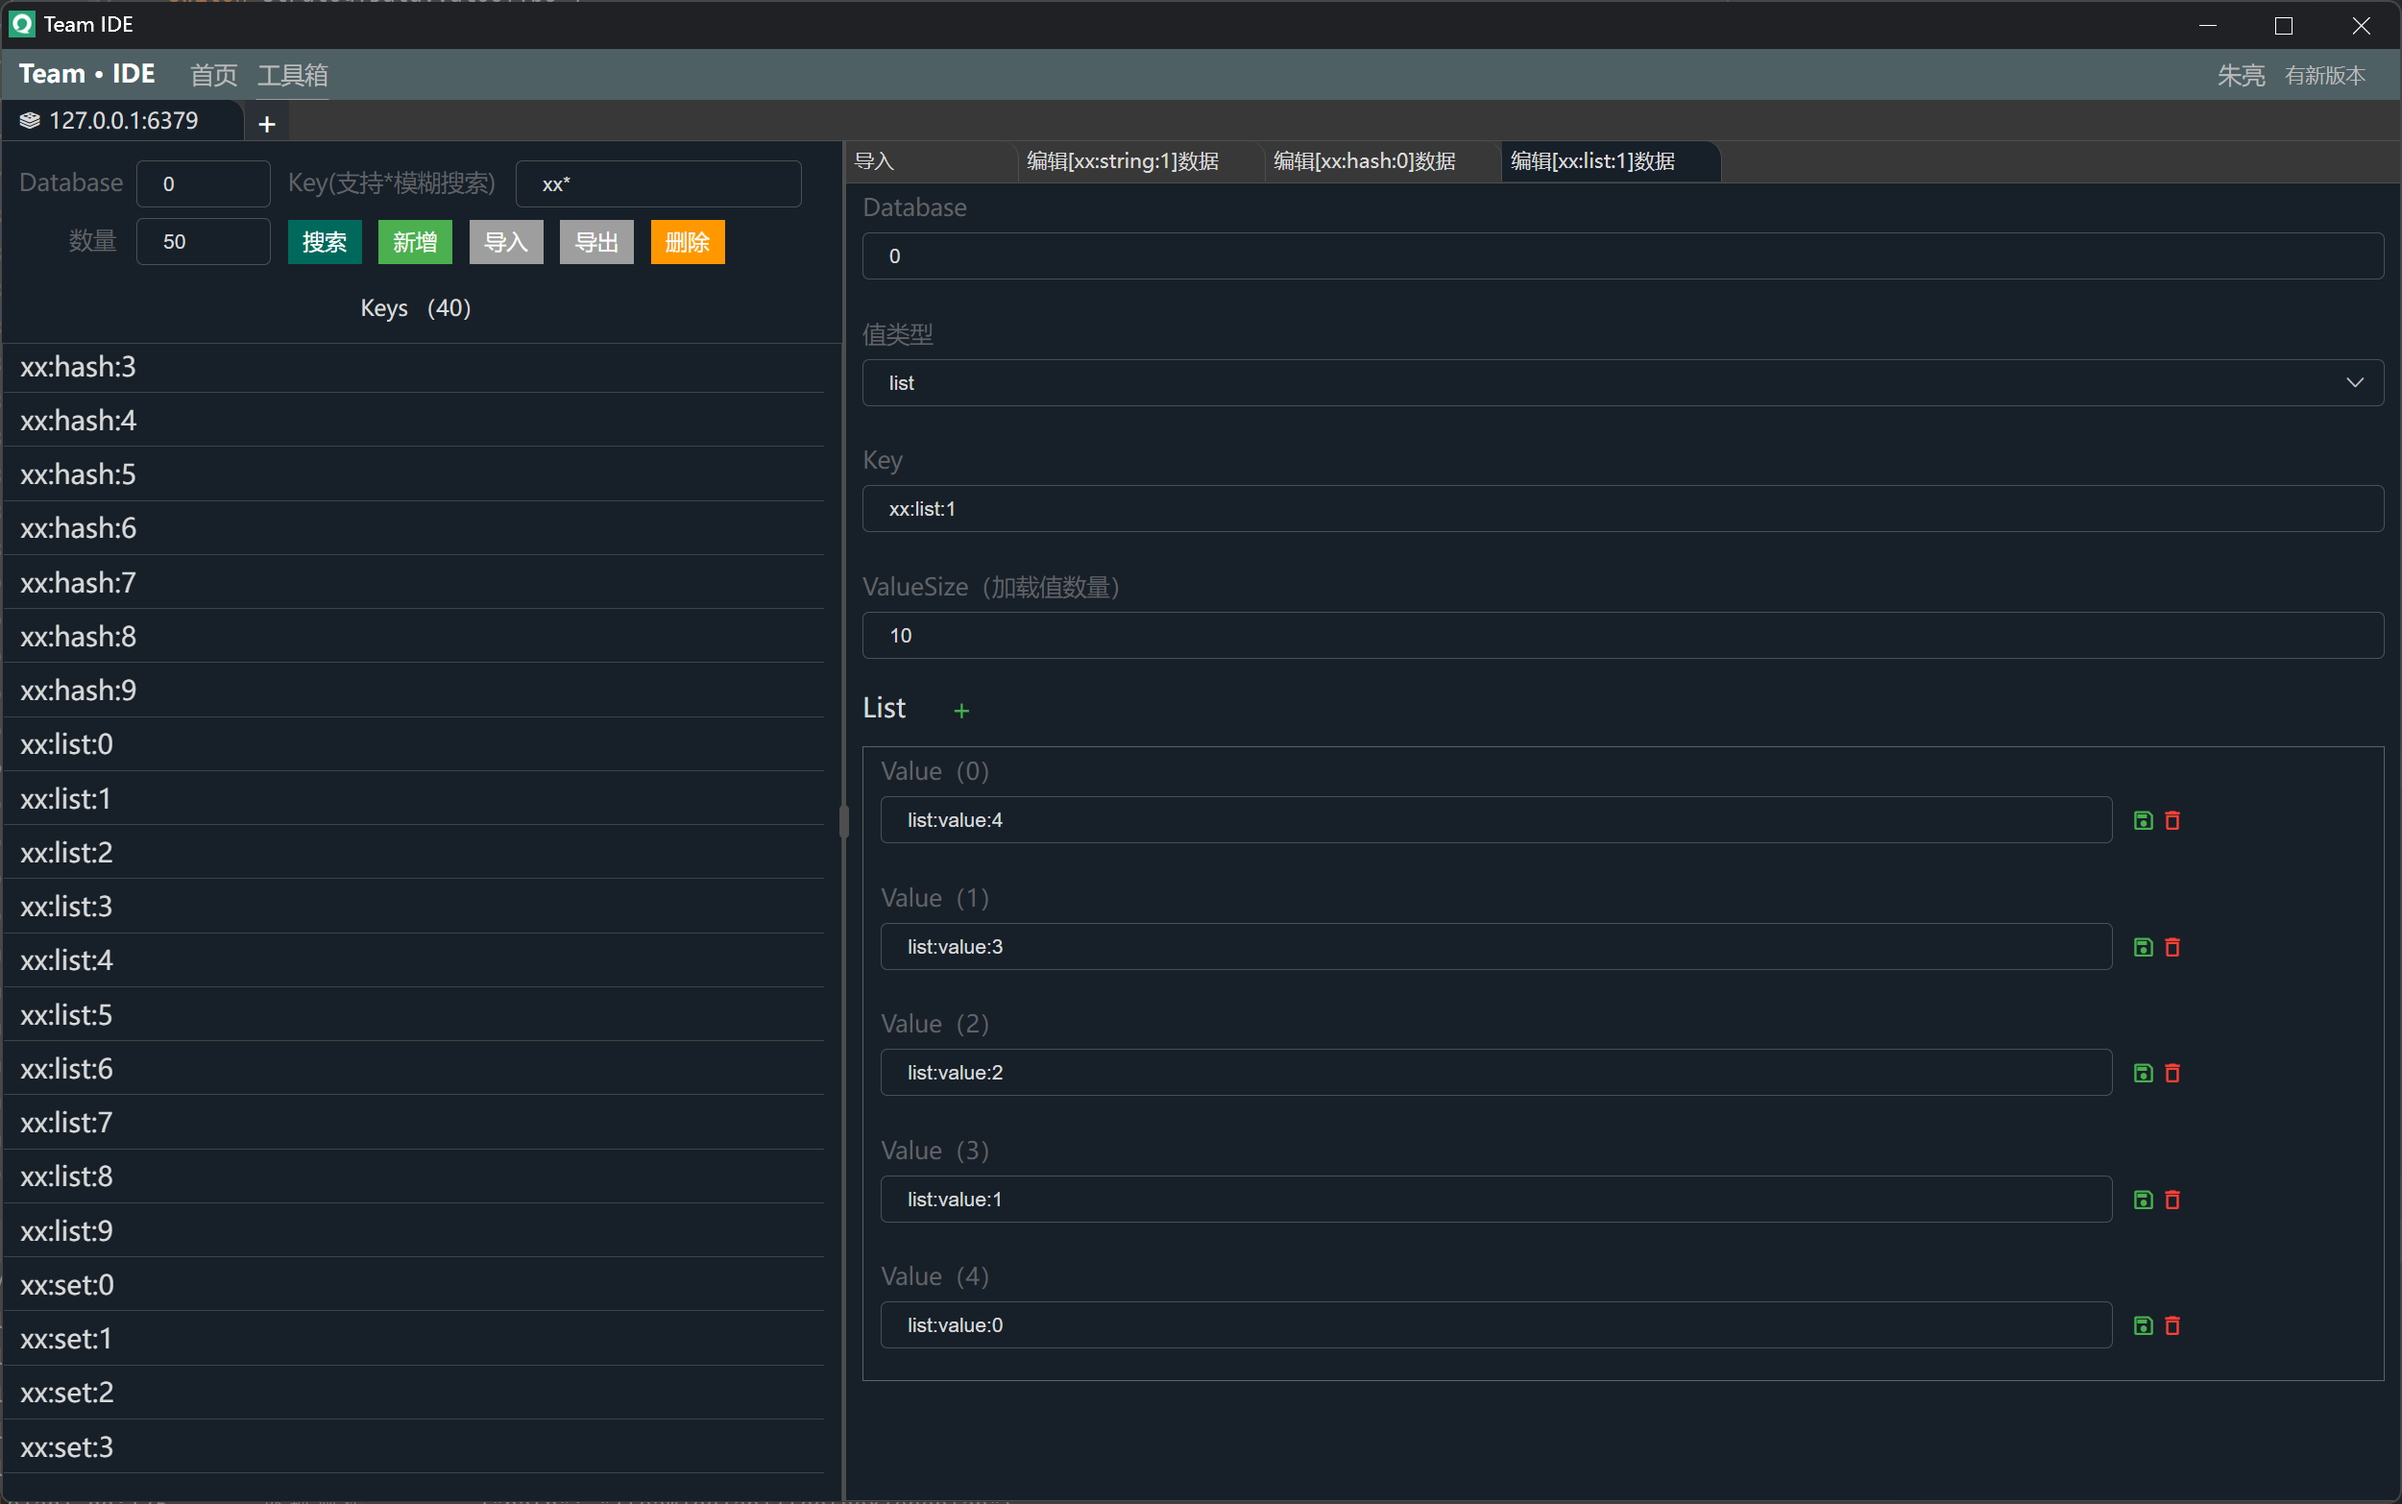
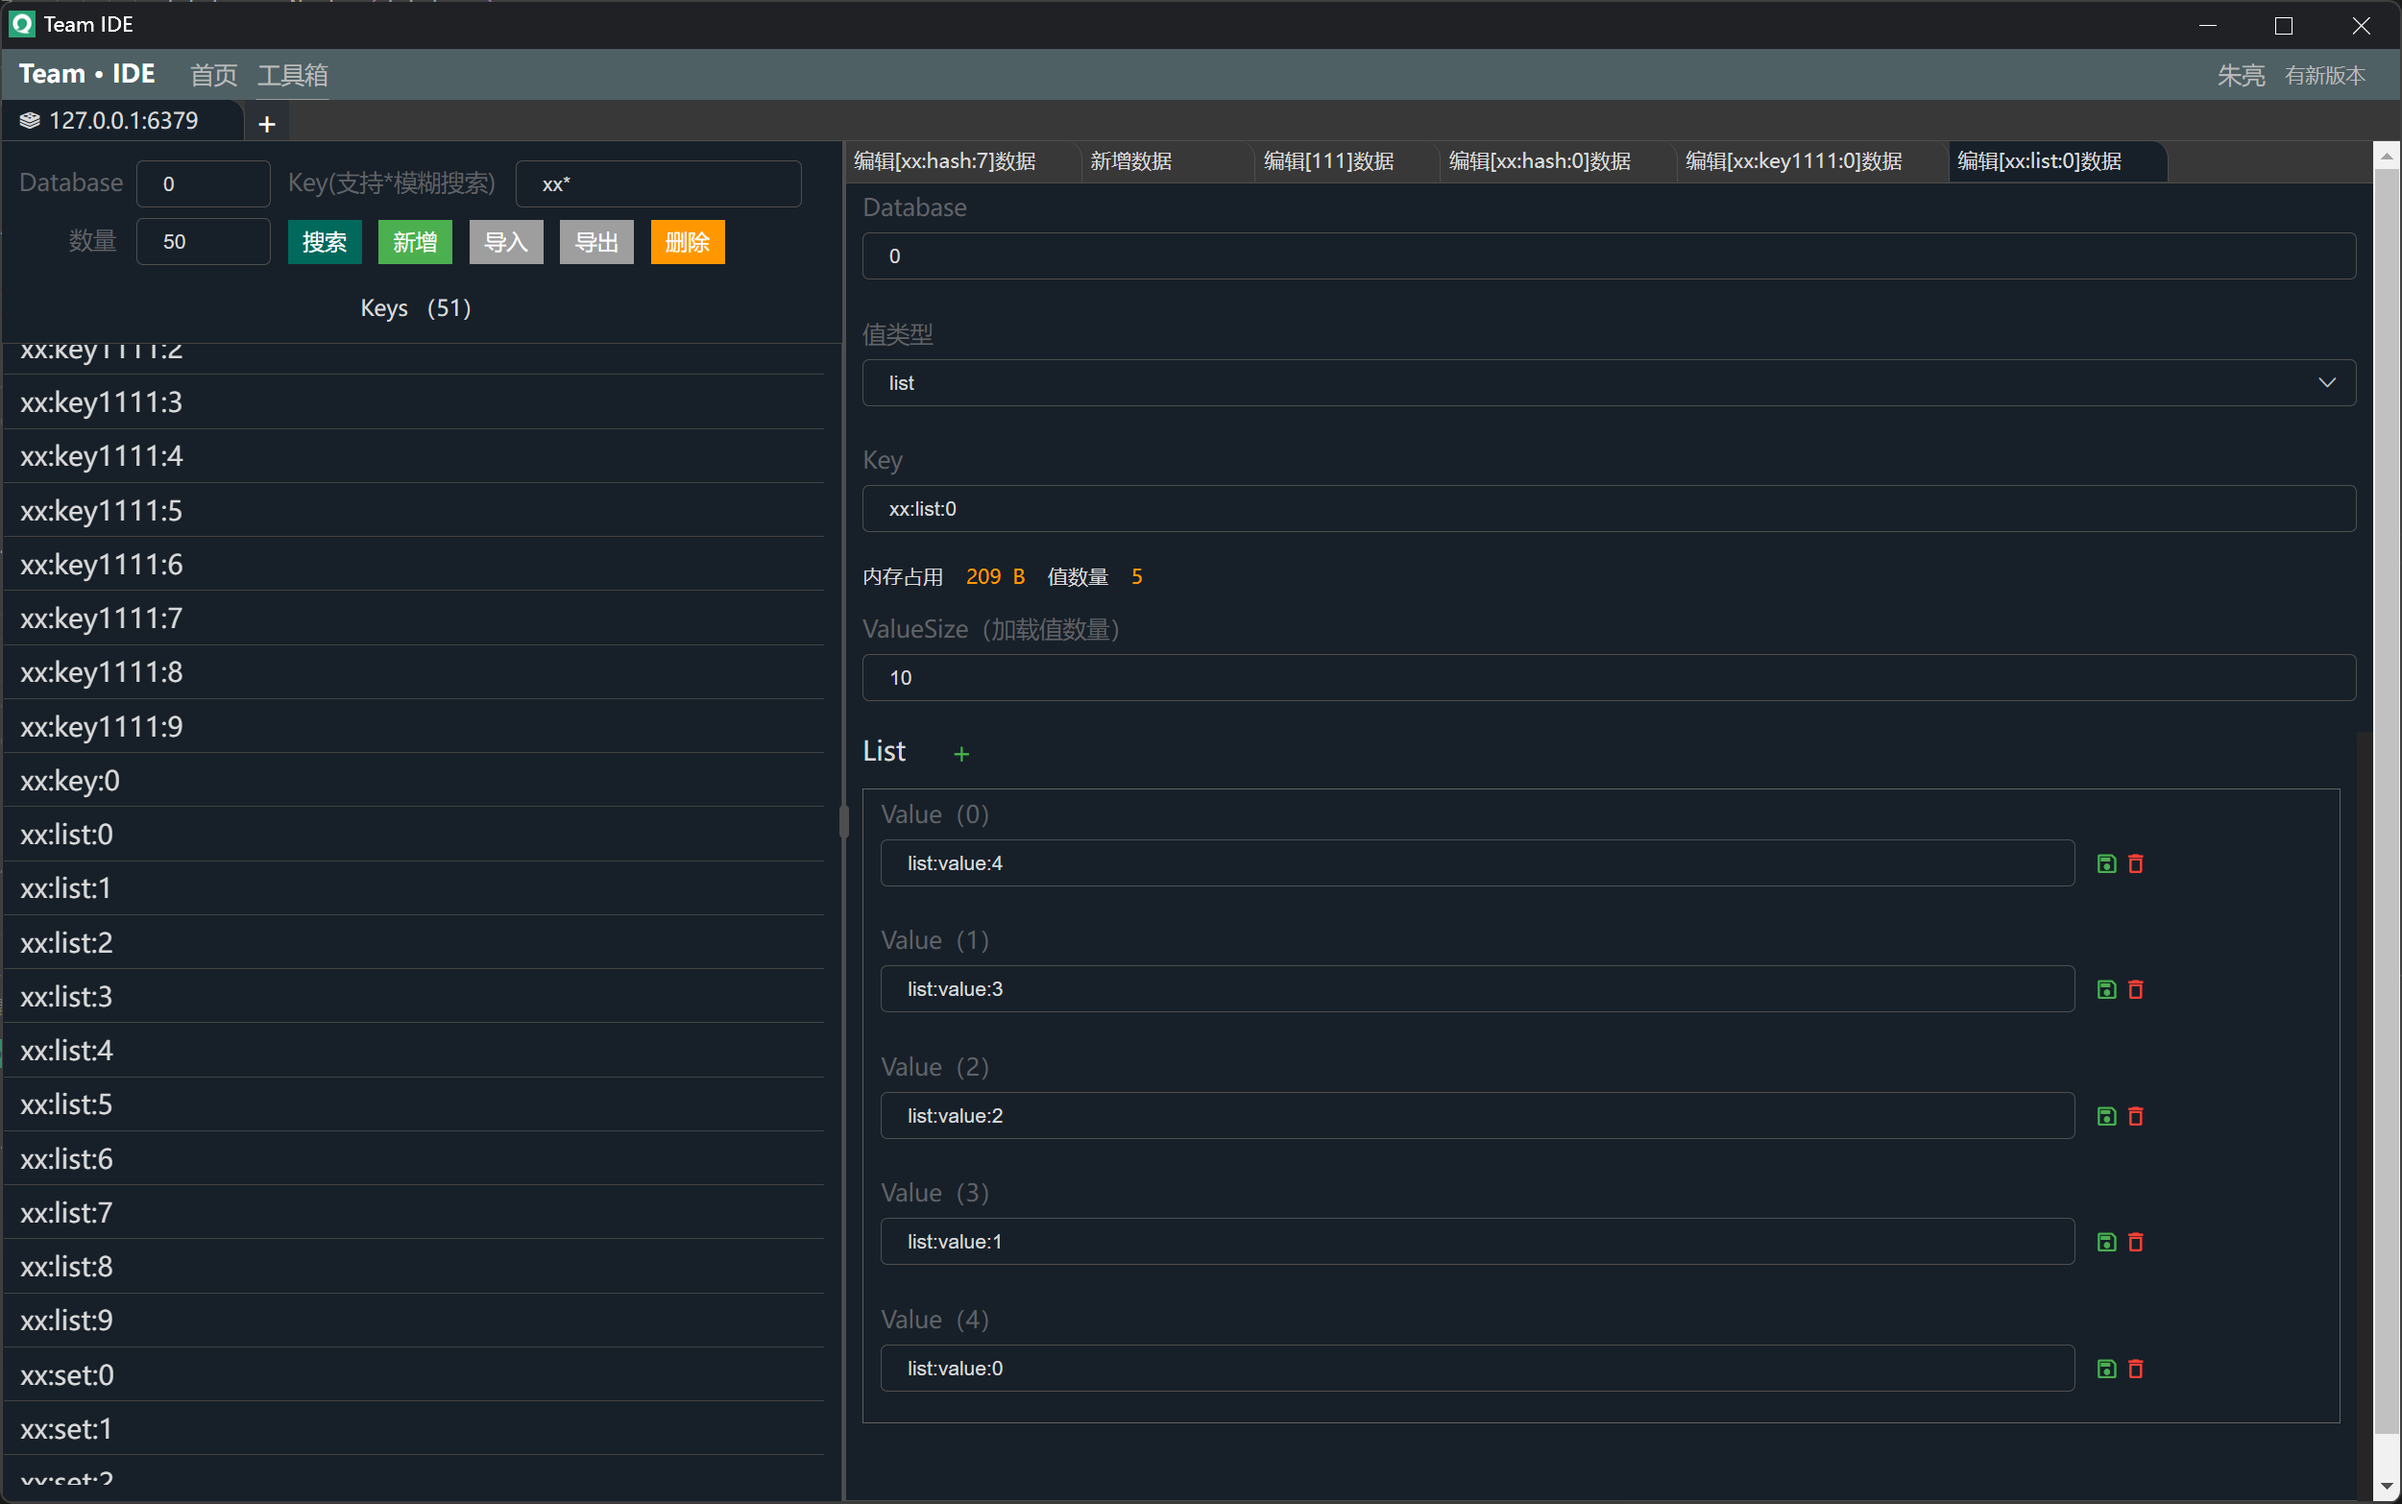
Redis点击某个Key展示Key的值占用内存大小；Key的值类型为Hash、List、Set展示值数量；

diff --git a/html/src/component/toolbox/redis/Data.vue b/html/src/component/toolbox/redis/Data.vue
@@ -21,6 +21,30 @@
           <el-form-item label="Key">
             <el-input v-model="form.key"> </el-input>
           </el-form-item>
+          <div
+            class="ft-12 pdb-10"
+            v-if="form.memoryUsage > 0 || form.valueCount > 0"
+          >
+            <template v-if="form.memoryUsage > 0">
+              <span class="mgl-10">
+                内存占用
+                <span class="mgl-10 color-orange">
+                  {{ form.unitMemoryUsage }}
+                </span>
+                <span class="mgl-3 color-orange">
+                  {{ form.unit }}
+                </span>
+              </span>
+            </template>
+            <template v-if="form.valueCount > 0">
+              <span class="mgl-10">
+                值数量
+                <span class="mgl-10 color-orange">
+                  {{ form.valueCount }}
+                </span>
+              </span>
+            </template>
+          </div>
           <template v-if="form.valueType == 'string'">
             <el-form-item label="Value">
               <el-input
@@ -269,6 +293,10 @@ export default {
         key: null,
         value: null,
         valueJson: null,
+        memoryUsage: 0,
+        unitMemoryUsage: null,
+        unit: null,
+        valueCount: 0,
       },
       setList: [],
       listList: [],
@@ -308,6 +336,9 @@ export default {
     async initForm() {
       this.loading = true;
       this.form.value = null;
+      this.form.memoryUsage = 0;
+      this.form.valueCount = 0;
+
       this.setList = [];
       this.listList = [];
       this.hashList = [];
@@ -339,6 +370,11 @@ export default {
       }
 
       this.form.value = null;
+      this.form.memoryUsage = data.memoryUsage || 0;
+      this.form.unitMemoryUsage = null;
+      this.form.unit = null;
+      this.tool.formatSize(this.form, "memoryUsage", "unitMemoryUsage", "unit");
+      this.form.valueCount = data.valueCount || 0;
       this.setList = [];
       this.listList = [];
       this.hashList = [];

diff --git a/html/src/component/toolbox/ssh/FTP.vue b/html/src/component/toolbox/ssh/FTP.vue
@@ -162,7 +162,6 @@ export default {
     async init() {
       await this.initToken(this);
       this.initSocket(this);
-      this.wrap.formatSize = this.formatSize;
     },
     onFocus() {
       this.$refs.remoteToolboxFTPFiles.onFocus();
@@ -170,26 +169,6 @@ export default {
     refresh() {
       this.$refs.localToolboxFTPFiles.refresh();
       this.$refs.remoteToolboxFTPFiles.refresh();
-    },
-    formatSize(data, name, sizeName, sizeUnitName) {
-      data[name] = data[name] || 0;
-      let sizeMap = [
-        { size: 1024 * 1024 * 1024 * 1024, unit: "TB" },
-        { size: 1024 * 1024 * 1024, unit: "GB" },
-        { size: 1024 * 1024, unit: "MB" },
-        { size: 1024, unit: "KB" },
-      ];
-
-      sizeMap.forEach((one) => {
-        if (!data[sizeUnitName] && data[name] >= one.size) {
-          data[sizeName] = Number(data[name] / one.size).toFixed(2);
-          data[sizeUnitName] = one.unit;
-        }
-      });
-      if (!data[sizeUnitName]) {
-        data[sizeName] = data[name];
-        data[sizeUnitName] = "B";
-      }
     },
     workContextmenu(e) {
       e = e || window.event;
@@ -248,10 +227,10 @@ export default {
       }
       work.progress = data.progress;
       if (work.progress.size) {
-        this.formatSize(work.progress, "size", "unitSize", "unit");
+        this.tool.formatSize(work.progress, "size", "unitSize", "unit");
 
         if (work.progress.successSize) {
-          this.formatSize(
+          this.tool.formatSize(
             work.progress,
             "successSize",
             "unitSuccessSize",
@@ -281,7 +260,7 @@ export default {
             ).toFixed(2);
             work.progress.sleepSize = sleepSize;
 
-            this.formatSize(
+            this.tool.formatSize(
               work.progress,
               "sleepSize",
               "unitSleepSize",

diff --git a/html/src/tool/index.js b/html/src/tool/index.js
@@ -204,6 +204,26 @@ tool.down = function (bean, name, value) {
         }
     }
 };
+tool.formatSize = function (data, name, sizeName, sizeUnitName) {
+    data[name] = data[name] || 0;
+    let sizeMap = [
+        { size: 1024 * 1024 * 1024 * 1024, unit: "TB" },
+        { size: 1024 * 1024 * 1024, unit: "GB" },
+        { size: 1024 * 1024, unit: "MB" },
+        { size: 1024, unit: "KB" },
+    ];
+
+    sizeMap.forEach((one) => {
+        if (!data[sizeUnitName] && data[name] >= one.size) {
+            data[sizeName] = Number(data[name] / one.size).toFixed(2);
+            data[sizeUnitName] = one.unit;
+        }
+    });
+    if (!data[sizeUnitName]) {
+        data[sizeName] = data[name];
+        data[sizeUnitName] = "B";
+    }
+};
 tool.preNUm = function (data) {
     let mask = 0x80;
     let num = 0;

diff --git a/html/src/component/toolbox/ssh/Files.vue b/html/src/component/toolbox/ssh/Files.vue
@@ -684,7 +684,7 @@ export default {
           one.isNew = false;
           one.show = true;
           if (!one.isDir) {
-            this.wrap.formatSize(one, "size", "unitSize", "unit");
+            this.tool.formatSize(one, "size", "unitSize", "unit");
           }
           if (one.modTime) {
             one.dateTime = this.tool.formatDate(

diff --git a/pkg/redis/cmdable.go b/pkg/redis/cmdable.go
@@ -55,6 +55,8 @@ func Get(ctx context.Context, client redis.Cmdable, key string, valueStart, valu
 		return
 	}
 	valueInfo = &ValueInfo{}
+
+	valueInfo.MemoryUsage, _ = MemoryUsage(ctx, client, key)
 	var value interface{}
 
 	if valueType == "none" {
@@ -242,9 +244,20 @@ func SetBit(ctx context.Context, client redis.Cmdable, key string, offset int64,
 }
 
 func BitCount(ctx context.Context, client redis.Cmdable, key string) (count int64, err error) {
-	var bitCount = &redis.BitCount{}
-	cmd := client.BitCount(ctx, key, bitCount)
+	cmd := client.BitCount(ctx, key, nil)
 	count, err = cmd.Result()
+	return
+}
+
+func Info(ctx context.Context, client redis.Cmdable) (res string, err error) {
+	cmd := client.Info(ctx)
+	res, err = cmd.Result()
+	return
+}
+
+func MemoryUsage(ctx context.Context, client redis.Cmdable, key string) (size int64, err error) {
+	cmd := client.MemoryUsage(ctx, key)
+	size, err = cmd.Result()
 	return
 }
 

diff --git a/pkg/redis/v8.go b/pkg/redis/v8.go
@@ -17,12 +17,13 @@ func CreateRedisService(address string, auth string) (service *V8Service, err er
 }
 
 type ValueInfo struct {
-	ValueType  string      `json:"valueType"`
-	Value      interface{} `json:"value"`
-	ValueCount int64       `json:"valueCount"`
-	ValueStart int64       `json:"valueStart"`
-	ValueEnd   int64       `json:"valueEnd"`
-	Cursor     uint64      `json:"cursor"`
+	ValueType   string      `json:"valueType"`
+	Value       interface{} `json:"value"`
+	ValueCount  int64       `json:"valueCount"`
+	ValueStart  int64       `json:"valueStart"`
+	ValueEnd    int64       `json:"valueEnd"`
+	Cursor      uint64      `json:"cursor"`
+	MemoryUsage int64       `json:"memoryUsage"`
 }
 
 type V8Service struct {

diff --git a/pkg/toolbox/redis.go b/pkg/toolbox/redis.go
@@ -83,6 +83,10 @@ func redisWork(work string, config map[string]interface{}, data map[string]inter
 		res["key"] = request.Key
 		res["valueType"] = valueInfo.ValueType
 		res["value"] = valueInfo.Value
+		res["memoryUsage"] = valueInfo.MemoryUsage
+		res["valueStart"] = valueInfo.ValueStart
+		res["valueEnd"] = valueInfo.ValueEnd
+		res["valueCount"] = valueInfo.ValueCount
 	case "keys":
 		var count int
 		var keys []string

diff --git a/pkg/util/util.go b/pkg/util/util.go
@@ -131,7 +131,7 @@ func RandomInt(min int, max int) (res int, err error) {
 		err = errors.New(fmt.Sprint("RandomInt error,min:", min, ",max:", max))
 		return
 	}
-	res = min + randForRandomInt.Intn(max-min)
+	res = min + randForRandomInt.Intn(max-min+1)
 	return
 }
 

diff --git a/README.md b/README.md
@@ -4,7 +4,7 @@ Team IDE 团队在线开发工具
 
 [![Code](https://img.shields.io/badge/Code-TeamIDE-red)](https://github.com/team-ide/teamide)
 [![License](https://img.shields.io/badge/License-Apache--2.0%20License-blue)](https://github.com/team-ide/teamide/blob/main/LICENSE)
-[![Release Latest](https://img.shields.io/badge/Release-V1.2.8-brightgreen)](https://github.com/team-ide/teamide/releases)
+[![Release Latest](https://img.shields.io/badge/Release-V1.2.9-brightgreen)](https://github.com/team-ide/teamide/releases)
 [![Download Window](https://img.shields.io/badge/Download-Window-orange)](https://github.com/team-ide/teamide/releases/latest/download/teamide-windows-x64.zip)
 [![Download Linux](https://img.shields.io/badge/Download-Linux-orange)](https://github.com/team-ide/teamide/releases/latest/download/teamide-linux-x64.zip)
 [![Download MAC](https://img.shields.io/badge/Download-MAC-orange)](https://github.com/team-ide/teamide/releases/latest/download/teamide-darwin-x64.zip)

diff --git a/RELEASE.md b/RELEASE.md
@@ -1,9 +1,8 @@
 # 发布说明
 
-## Version v1.2.8 （2022/06/06）
+## Version v1.2.9 （2022/06/09）
 
 发布功能
 
-1. SSH 出现数据截断问题导致页面显示异常
-2. 设置终端中的回滚量为100000000，避免无法上拉查看历史
-3. 可以使用clear清屏
+1. Redis点击某个Key展示Key的值占用内存大小
+2. Key的值类型为Hash、List、Set展示值数量

diff --git a/RELEASE_HISTORY.md b/RELEASE_HISTORY.md
@@ -1,5 +1,12 @@
 # 发布说明
 
+## Version v1.2.9 （2022/06/09）
+
+发布功能
+
+1. Redis点击某个Key展示Key的值占用内存大小
+2. Key的值类型为Hash、List、Set展示值数量
+
 ## Version v1.2.8 （2022/06/06）
 
 发布功能
